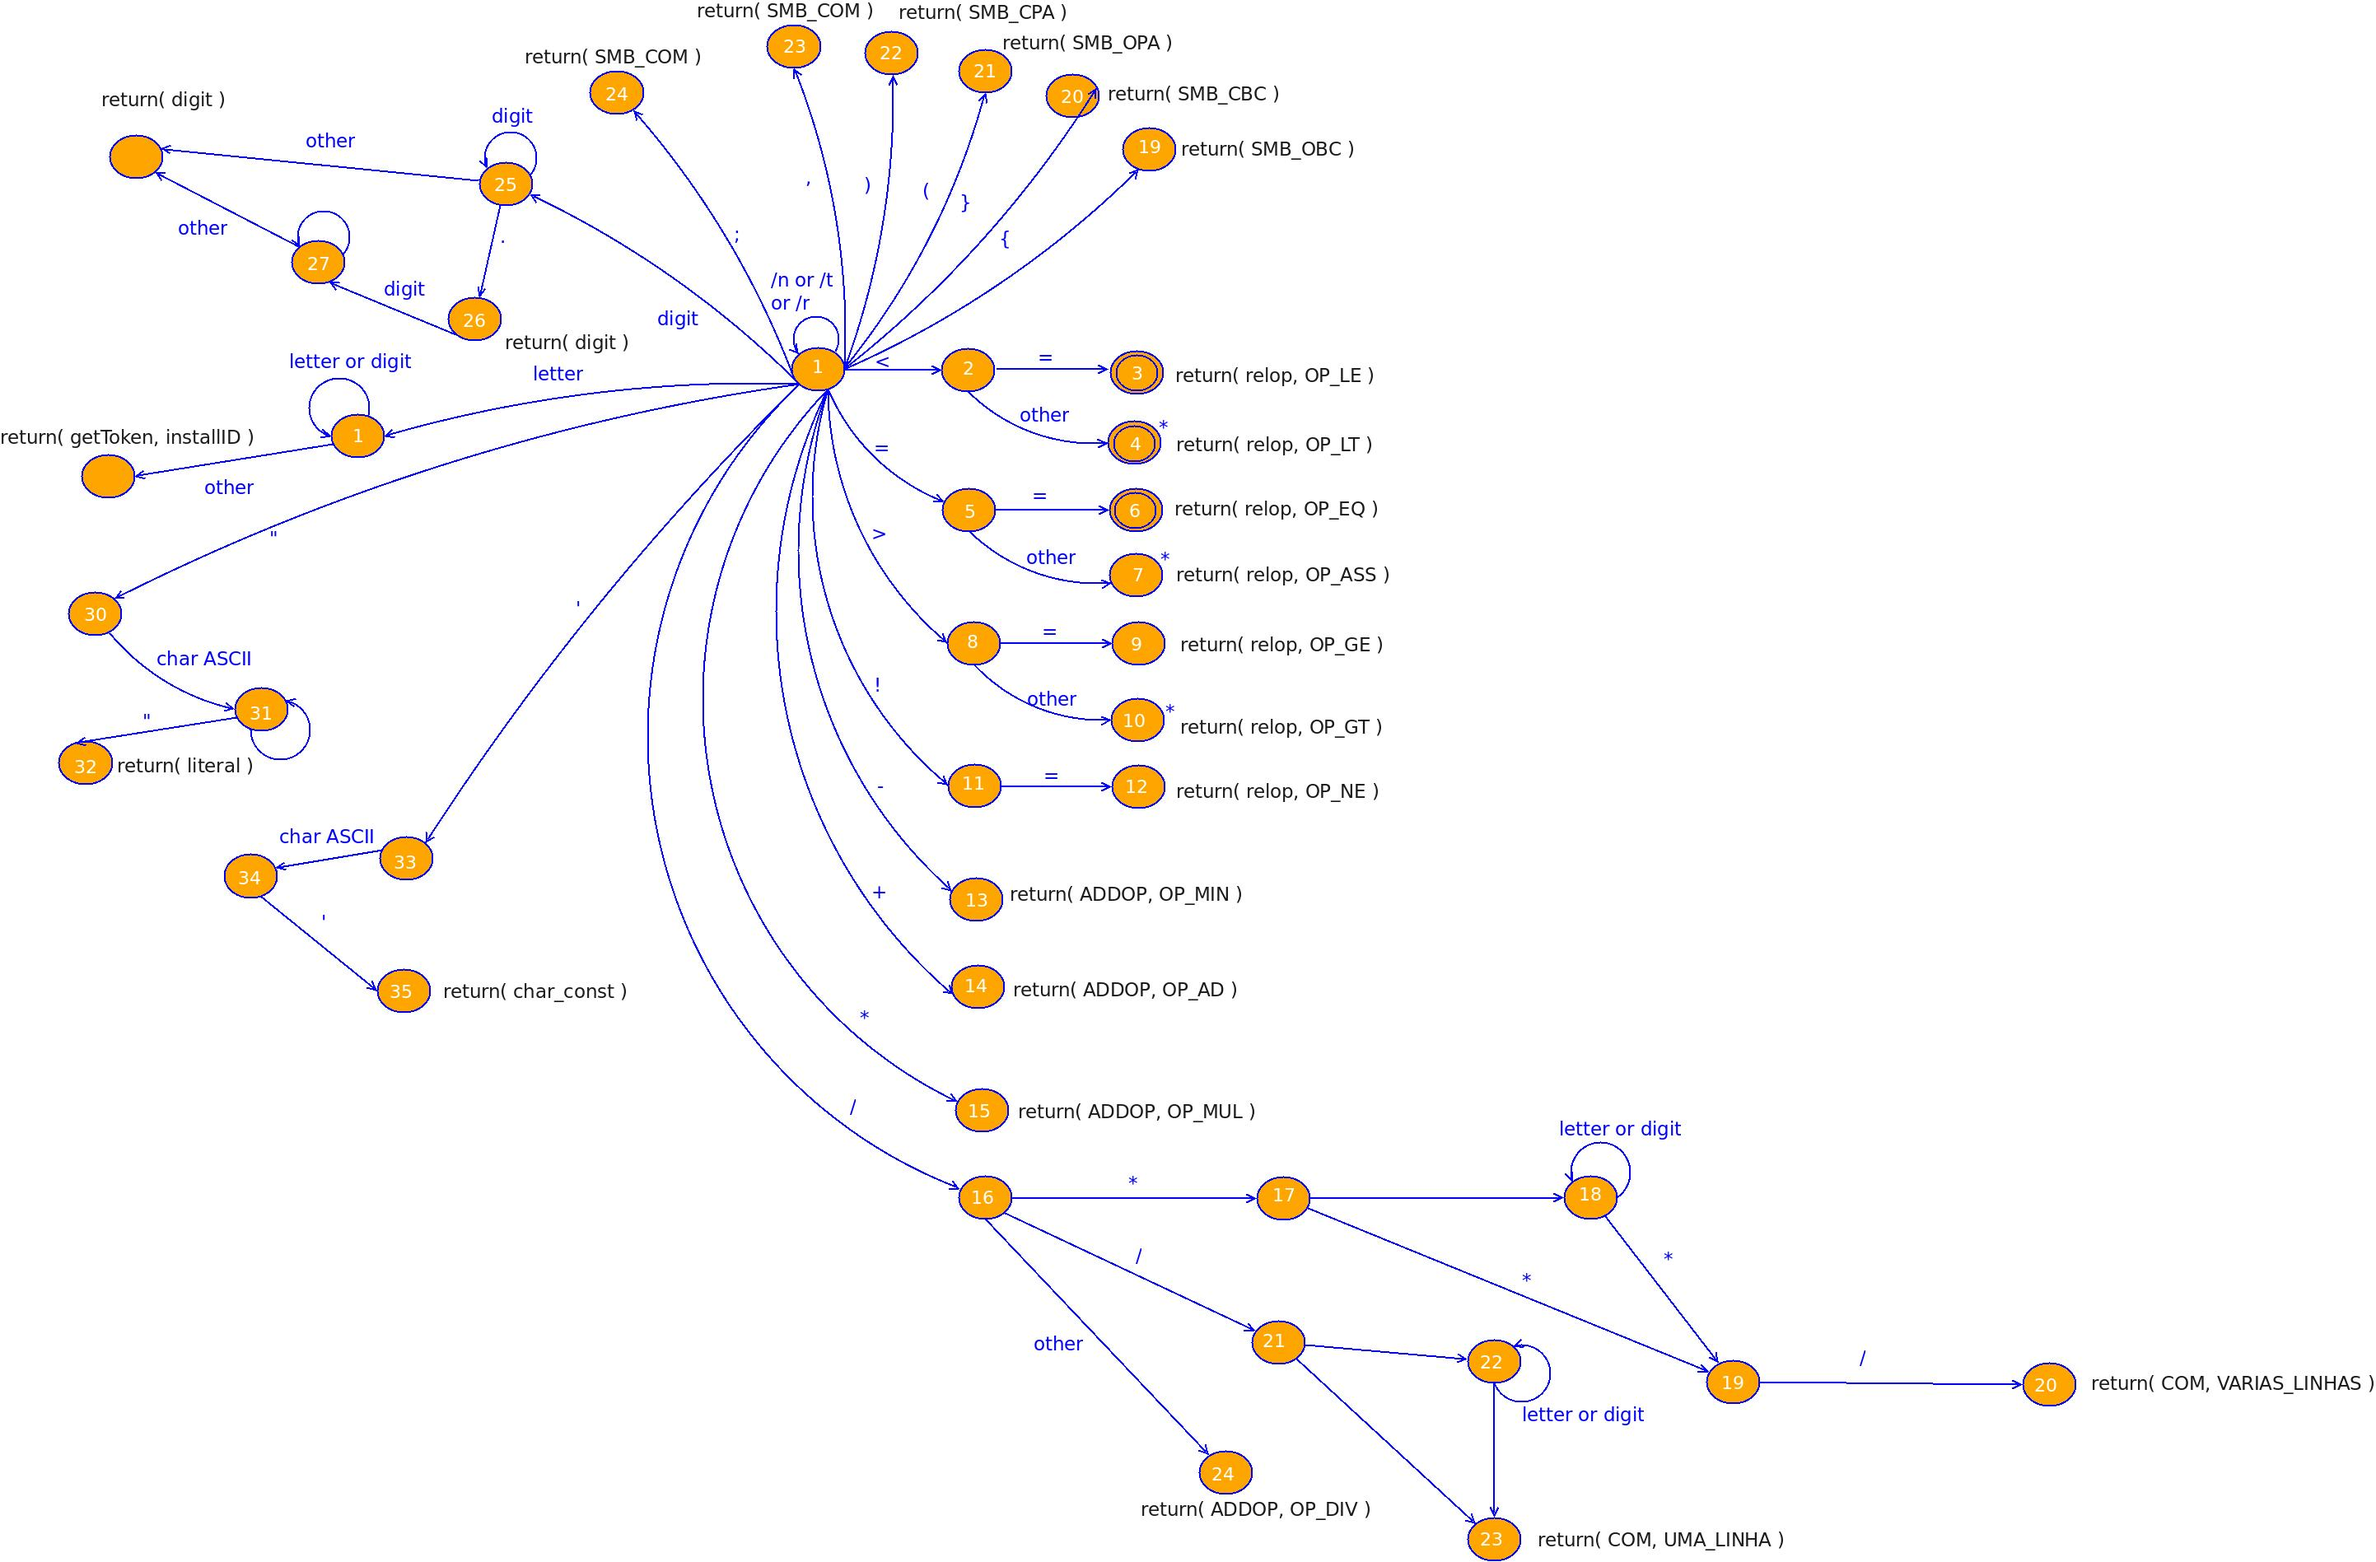
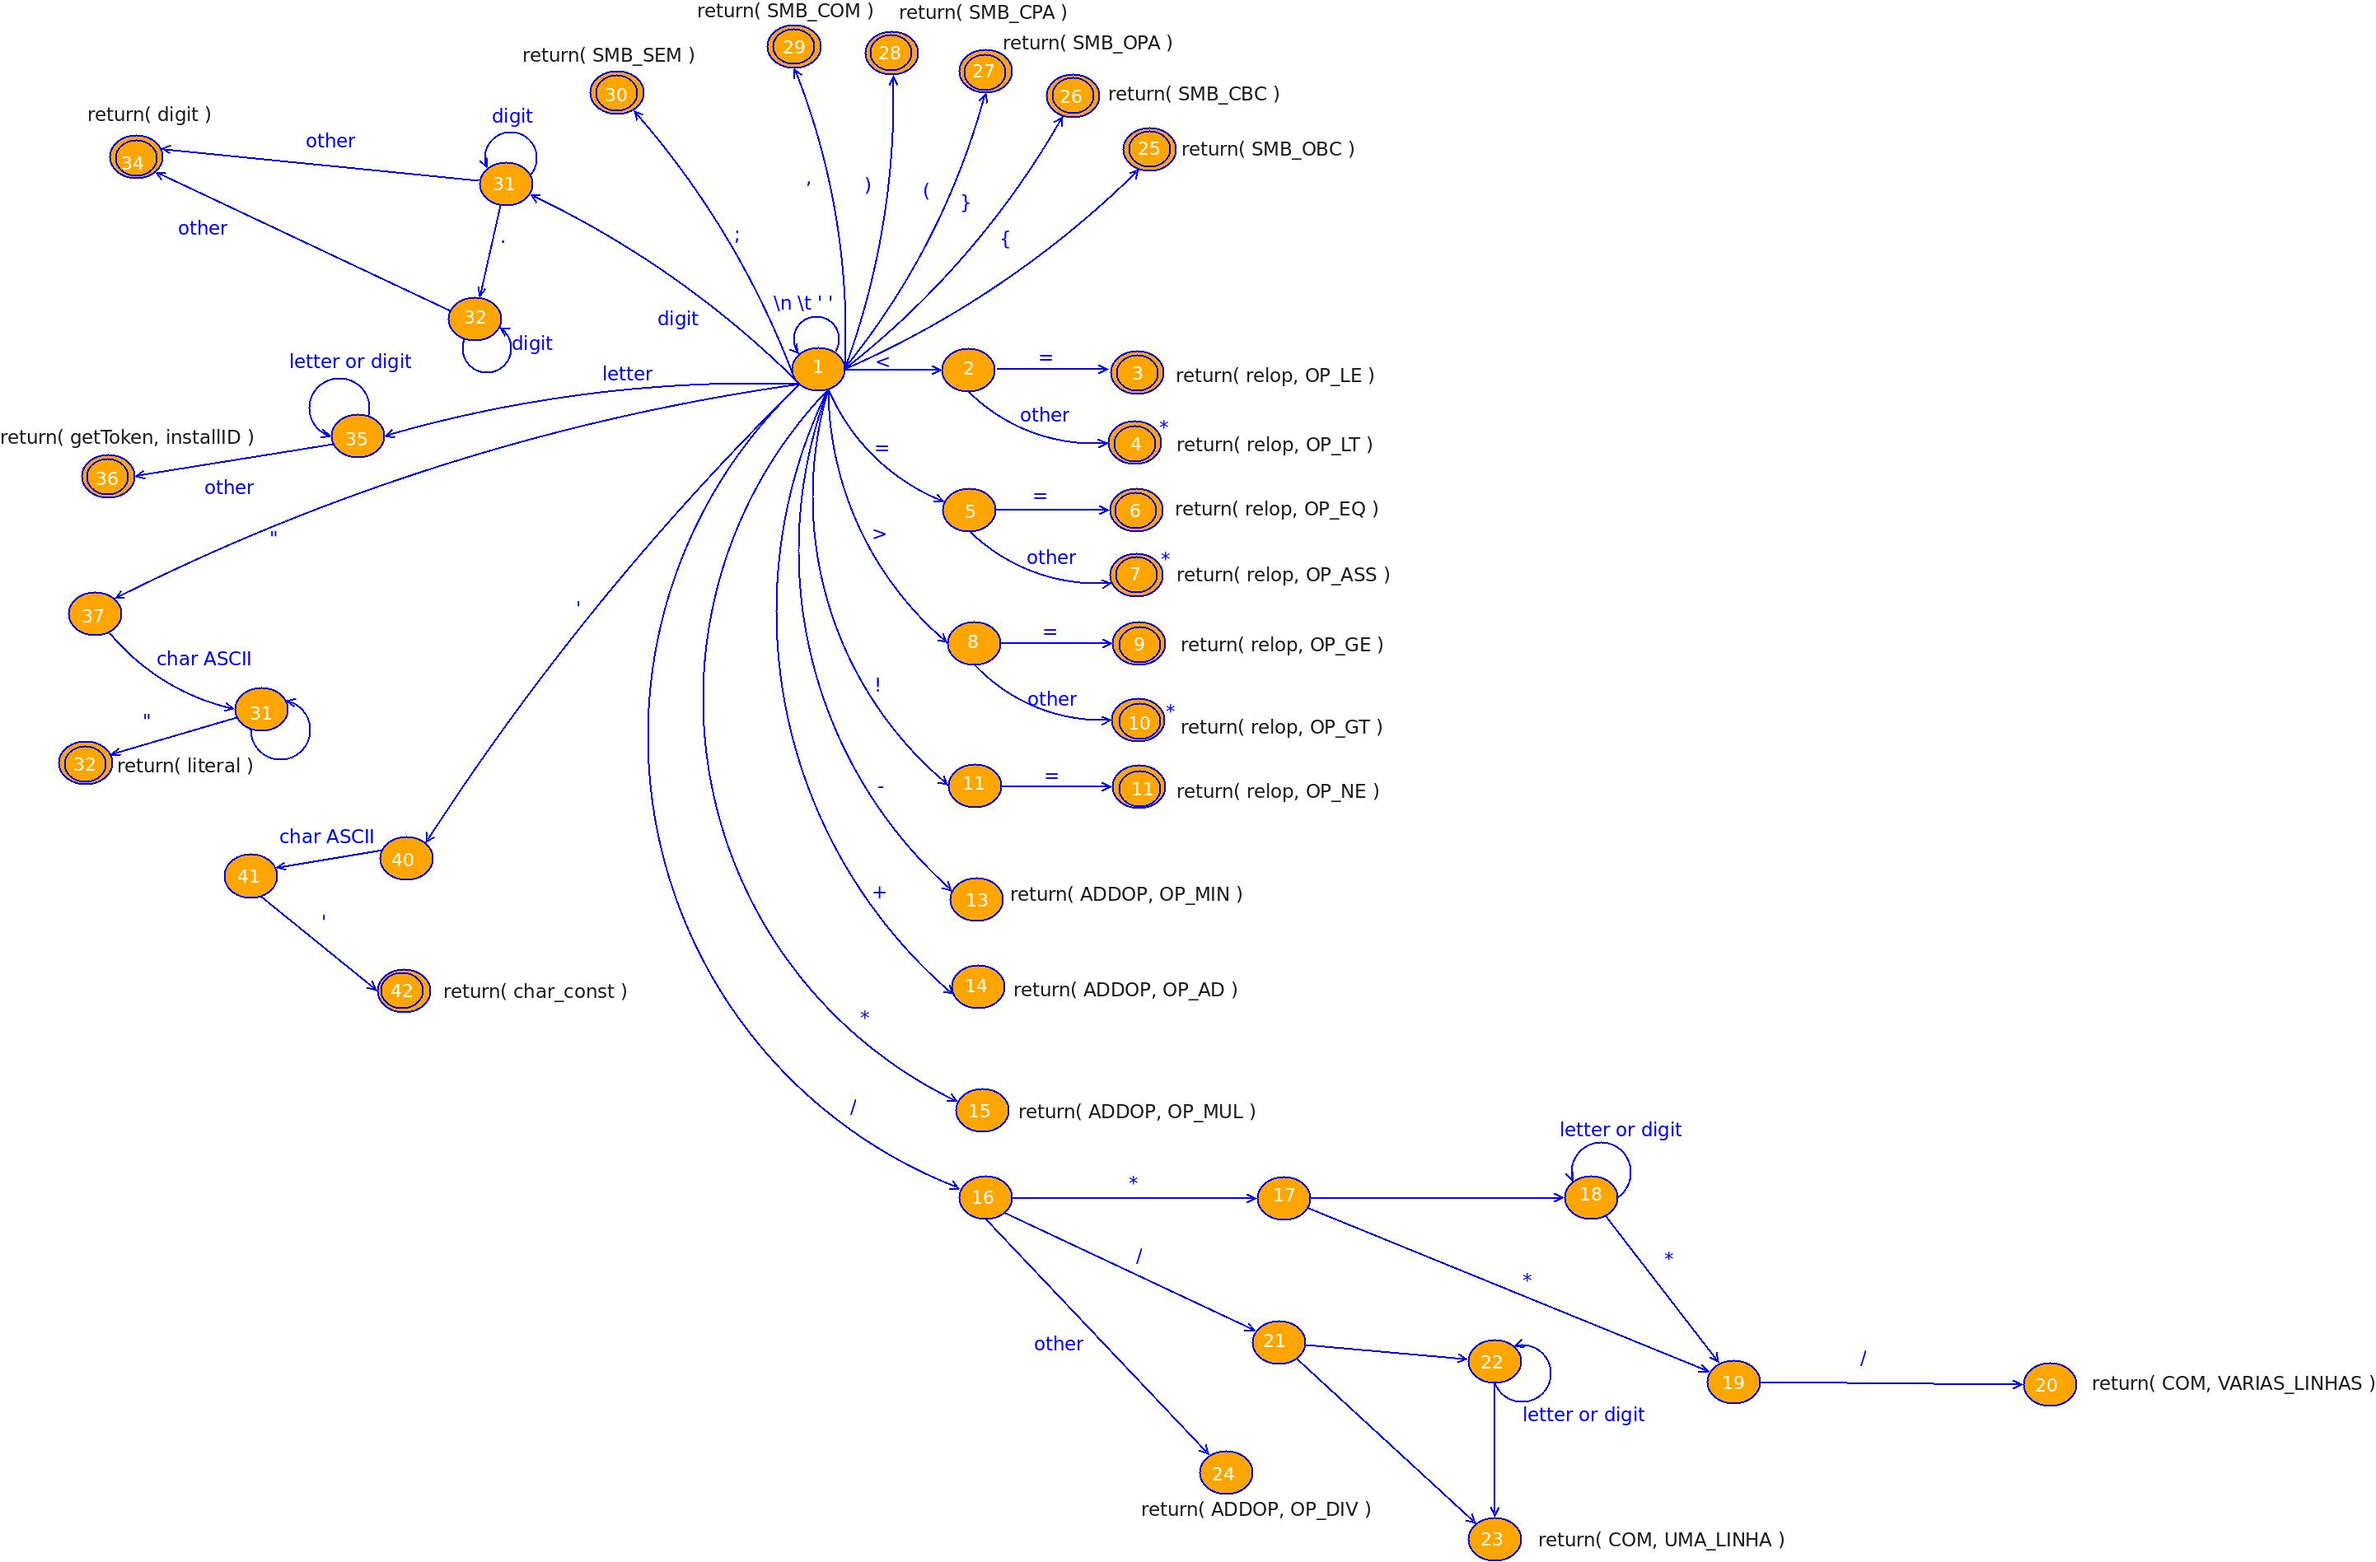
delete auxiliary variables and prints

diff --git a/lexer.py b/lexer.py
@@ -16,15 +16,9 @@ class Lexer(object):
 		self.column = 1
 		self.__state = 1 #
 		self.__list_lexema = []
-		self.lexema = []
-		self.__list_digit = []
-		self.digit = []
-		self.__list_const_char = []
-		self.__list_literal = []
-		self.__list_double = []
-		self.double = []
-		self._result_double = []
 		self.erros = []
+		self.EOF = 1
+		self.char = ''
 
 
 		# open the file
@@ -82,21 +76,23 @@ class Lexer(object):
 			Alter state
 			
 		'''
-		
+		self.__list_lexema = []
 		while True:
-
+			
 			self.column = self.column + 1 
 
 			# Read File
 			try:
 				self.c = self.__file.read(1)				
 				if not self.c:
-					return Token(Tag_Type.EOF, "EOF", self.row, self.column)				
+					self.EOF = -1
+					#return Token(Tag_Type.EOF, "EOF", self.row, self.column)				
 
 			except IOError as e:
 				raise e		
 
 			if self.__state == 1: # CASE 1
+
 				if not self.c:			
 					return Token(Tag_Type.EOF, "EOF", self.row, self.column)				
 				
@@ -161,12 +157,9 @@ class Lexer(object):
 				elif self.c == "*":
 					self.__state = 15
 
-		
-
-
 				# build num_const
 				elif self.c.isdigit():
-					self.__list_digit.append(self.c) # return of the state 34
+					self.__list_lexema.append(self.c) # return of the state 34
 					self.__state = 31
 
 				# build id
@@ -181,6 +174,7 @@ class Lexer(object):
 					self.__state = 37
 
 				else:
+
 					self.panic_mode(self.row, self.column, "Invalid Character")
 
 			elif self.__state == 2: # CASE 2
@@ -199,7 +193,7 @@ class Lexer(object):
 				else:
 					self.file_pointer()
 					self.__state = 1
-					print "mult"
+					return Token(Tag_Type.OP_MUL, "*", self.row, self.column)
 			
 			elif self.__state == 5: # CASE 5
 				if self.c == "=": # state 6
@@ -243,13 +237,15 @@ class Lexer(object):
 				else:
 					self.__state = 1
 					self.file_pointer()
-					return Token(Tag_Type.OP_DIV, ''.join(map(str, self.__list_digit + self.__list_double)), self.row, self.column)
+					return Token(Tag_Type.OP_DIV, "/", self.row, self.column)
 			
 
-			elif self.__state == 17:
-				print "erro fim do arquivo"
+			elif self.__state == 17:				
 				if self.c != "*":
 					self.__state = 17
+					if self.EOF == -1:
+  						self.panic_mode(self.row, self.column,"Invalid Character expected */""")
+  						return None					
 				else:	
 					self.__state = 19					
 
@@ -258,13 +254,11 @@ class Lexer(object):
 					self.__state = 1
 					pass
 				else:
-					self.__state = 17
-
-
-
-
-
-
+					if self.EOF == -1:
+  						self.panic_mode(self.row, self.column,"Invalid Character expected */""")
+  						return None
+  					else:					
+						self.__state = 17
 
 			elif self.__state == 21:
 				if self.c == " " or self.c == "\t" or self.c in string.letters or self.c.isdigit():
@@ -273,112 +267,85 @@ class Lexer(object):
 					self.__state = 1
 					self.file_pointer()
 					pass
-					#return Token(Tag_Type.COMENTARIO_UMALINHA, ''.join(map(str, self.__list_digit + self.__list_double)), self.row, self.column)
+					
 
   			elif self.__state == 31: # CASE 31
+
   				if self.c.isdigit():
-  					self.__list_digit.append(self.c)
+  					self.__list_lexema.append(self.c)
   					self.__state = 31
-
-
-
   				else:
   					if self.c == ".": 						
-  						self.__list_digit.append(self.c)
-  						self.__list_double = self.__list_digit
-  						self.__list_digit = []
+  						self.__list_lexema.append(self.c)
   						self.__state = 32 # state 32
-
-
   					else:
 	  					self.__state = 1
-	  					self.digit = self.__list_digit
-	  					self.__list_digit = []
-
 	  					self.file_pointer()
 	  					self.column = self.column - 1
-	  					return Token(Tag_Type.INTEGER, ''.join(map(str, self.digit)), self.row, self.column)
+	  					return Token(Tag_Type.CON_NUM, ''.join(map(str, self.__list_lexema)), self.row, self.column)
 
   			elif self.__state == 32:  # CASE 31	
   				if self.c.isdigit():
-  					self.double.append(self.c)
-
+  					self.__list_lexema.append(self.c)
   					self.__state = 32  
 
-
   				else:
-  					if not self.c.isdigit():
-  						if len(self.double) >= 1:
-  							self.__state = 1	# state 34
-  							self.file_pointer()  							
-  							self._result_double = self.__list_double + self.double
-  							self.digit = self.__list_digit
-  							self.__list_double = []
-  							self.__list_digit = []
-  							self.double = []
-  							return Token(Tag_Type.DOUBLE, ''.join(map(str, self._result_double)), self.row, self.column)
-  						else:
-  							self.__list_double = []
-  							self.__list_digit = []
-  							self.double = []
-  							self.file_pointer()
-  							self.panic_mode(self.row, self.column, "Invalid Character, expected a integer")
-							self.__state = 1
+  					self.__state = 1	# state 34
+  					self.file_pointer()
+  					return Token(Tag_Type.CON_NUM, ''.join(map(str, self.__list_lexema)), self.row, self.column)
+  					#else:  	
+  					#		self.panic_mode(self.row, self.column, "Invalid Character, expected a integer")
+					#		self.__state = 1
   					
 
   			elif self.__state == 35: # Case 35
   				if self.c.isalpha() or self.c.isdigit(): 
   					self.__list_lexema.append(self.c)
-
+  					
   				else:
-  					self.__state = 1 # # state 36
-  					self.lexema = self.__list_lexema
-  					self.__list_lexema = []
-
-  					token =  self.__TS.get_token(''.join(map(str, self.lexema))) # Pesquisa na Tabela de Simbolo.
-  					self.file_pointer()
+  					self.__state = 1 # state 36
+  					token =  self.__TS.get_token(''.join(map(str, self.__list_lexema))) # Pesquisa na Tabela de Simbolo.
   					self.column = self.column - 1
 
   					if token == None:
+  						self.file_pointer()
   						# if not found in the symbol table, insert.
-  						token = Token(Tag_Type.ID, ''.join(map(str, self.lexema)), self.row, self.column)
-
+  						token = Token(Tag_Type.ID, ''.join(map(str, self.__list_lexema)), self.row, self.column)
 	  					self.__TS.put_tabela_simbolo(token, randint(21,100)) # insert in the symbol table.
 	  					return token # returns a new token object.  					
   					return token
 
-  			elif self.__state == 37:  		
-  					
-  				if self.c in string.whitespace or self.c in string.letters:
-  					self.__list_literal.append(self.c)
+  			elif self.__state == 37:
+  				if self.c in string.whitespace or self.c in string.letters or self.c.isdigit():
+  					self.__list_lexema.append(self.c)
   					self.__state = 37	  					
-  					#time.sleep(2)  				
+  					
+  				if self.c == "\"":
+  						self.__state = 1
+ 						return Token(Tag_Type.LITERAL, ''.join(map(str, self.__list_lexema)), self.row, self.column)
   				else:
-  					if self.c == "\"":
-  						self.__state = 1
-  						return Token(Tag_Type.LITERAL, ''.join(map(str, self.__list_literal)), self.row, self.column)
-  					else:
+  					if self.EOF == -1:
   						self.panic_mode(self.row, self.column,"Invalid Character expected \"")
-  						#sprint >>sys.stderr, "   ", "File ", self.__file.name, " \n\n\tLinha:", self.row , " Coluna: ", self.column - 1, "\n\t invalid", "\n\t expected ""\"" "\n"
-  						self.file_pointer()
-  						self.__state = 1
-
+  						return None
+  					
 
   			elif self.__state == 40:
   				if self.c.isdigit() or self.c.isalpha() and self.c != "'":
-  					self.__list_const_char.append(self.c)  					
+  					self.__list_lexema.append(self.c) 
+  					self.__state = 40
   				else:
+
   					if self.c == "'":
   						self.__state = 1
-  						if len(self.__list_const_char) > 1:
-  							print >>sys.stderr, "   ", "File ", self.__file.name, " \n\n\tLinha:", self.row , " Coluna: ", self.column - 1, "\n\t invalid", "\n\t literal must contain only one character\n"  							
+  						if len(self.__list_lexema) > 1:
+  							self.panic_mode(self.row, self.column,"literal must contain only one character \"")
+
 						else:
-  							return Token(Tag_Type.CON_CHAR, ''.join(map(str, self.__list_const_char)), self.row, self.column)
-  					
+  							return Token(Tag_Type.CON_CHAR, ''.join(map(str, self.__list_lexema)) , self.row, self.column)
 
 def main():
 
-	lexer = Lexer('erro_cassio.psc')
+	lexer = Lexer('teste2.txt')
 	var = True
 	while var:		
 		token = lexer.nex_token()
